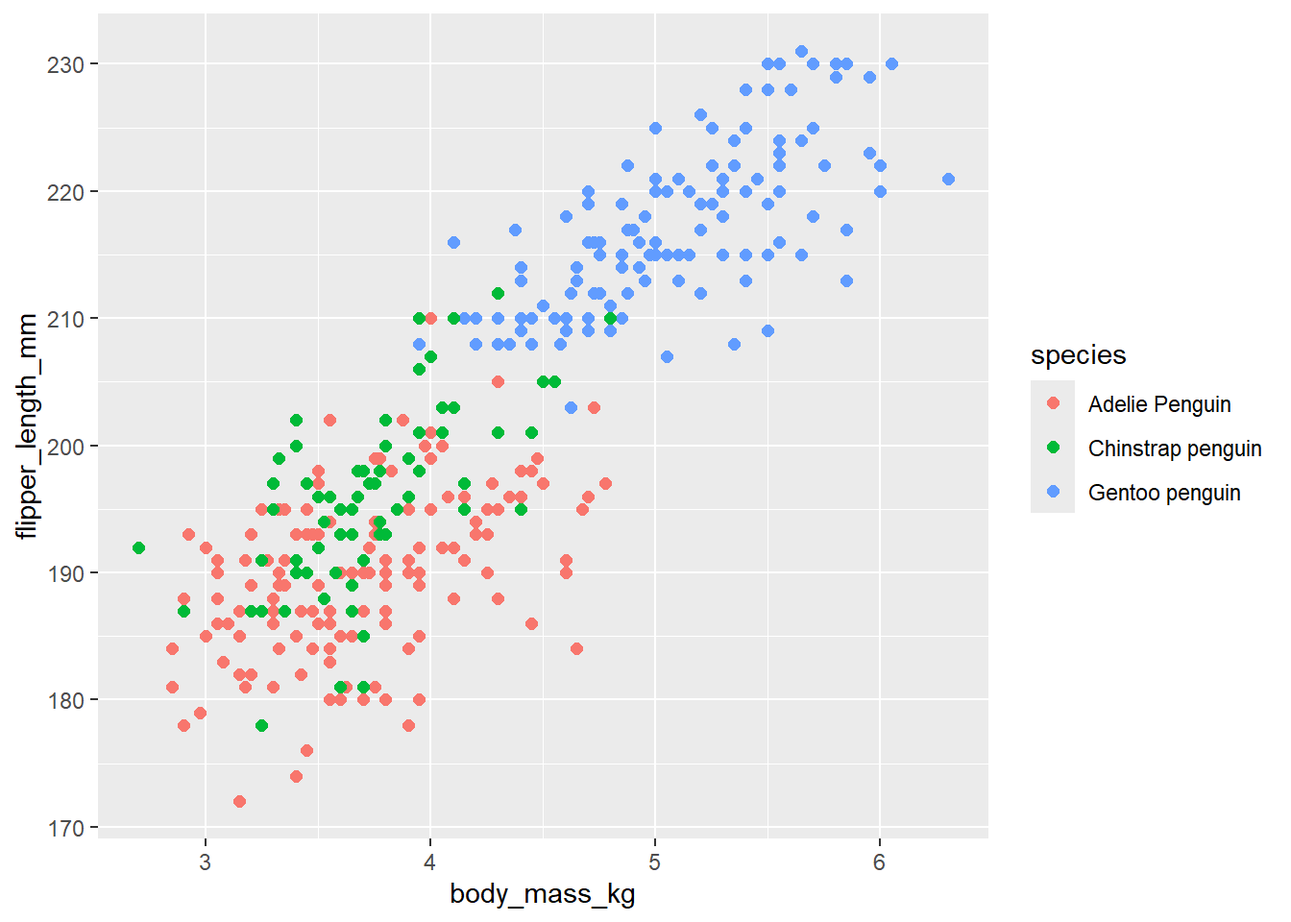
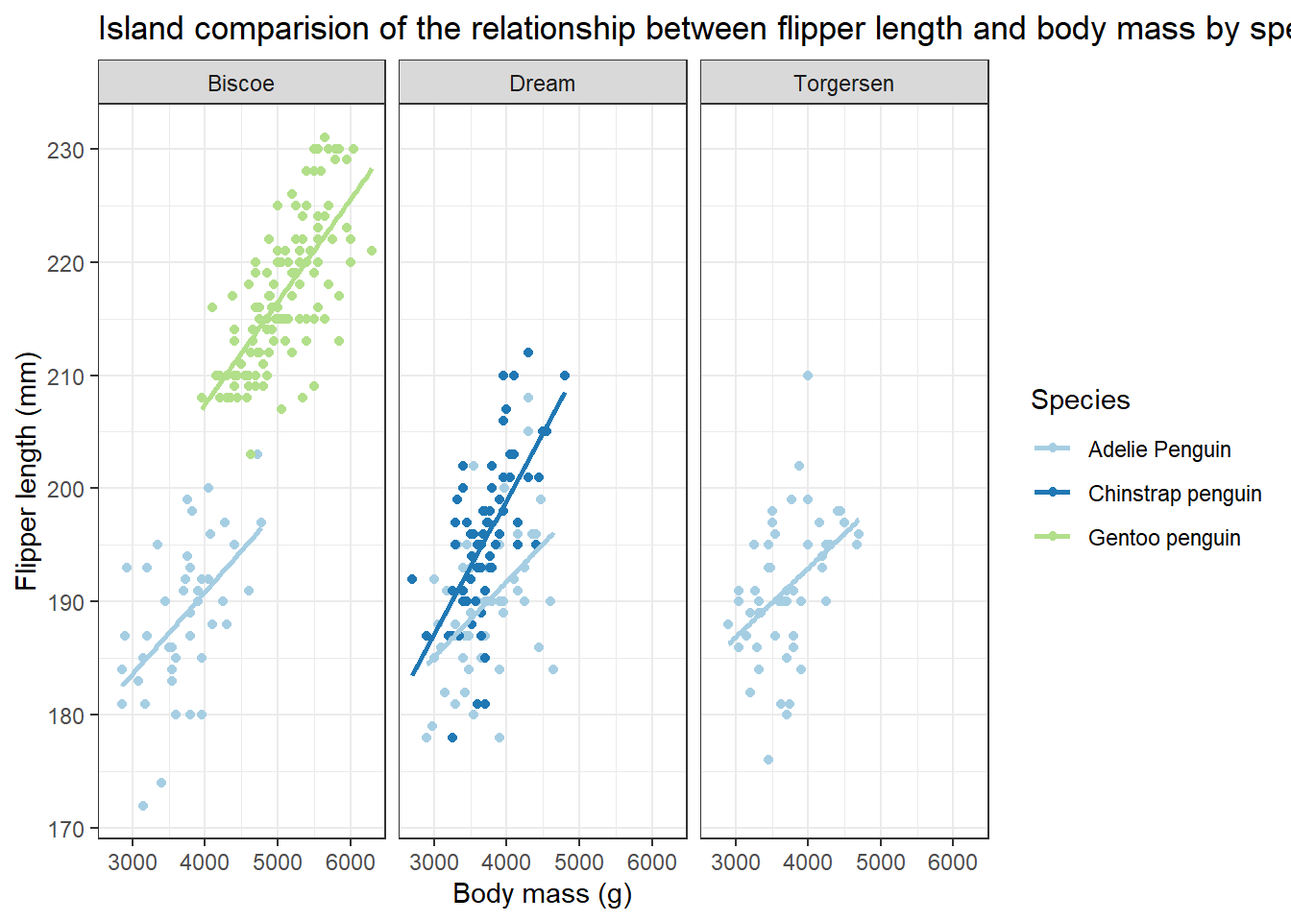
rendered script

diff --git a/scripts/BYOD1_workshop.html b/scripts/BYOD1_workshop.html
@@ -138,18 +138,9 @@ pre > code.sourceCode > span > a:first-child::before { text-decoration: underlin
   <li><a href="#main-elements-of-a-ggplot-object" id="toc-main-elements-of-a-ggplot-object" class="nav-link" data-scroll-target="#main-elements-of-a-ggplot-object"><span class="header-section-number">6.2</span> Main elements of a ggplot object</a>
   <ul class="collapse">
   <li><a href="#one-variable-figures" id="toc-one-variable-figures" class="nav-link" data-scroll-target="#one-variable-figures"><span class="header-section-number">6.2.1</span> One-variable figures</a></li>
-  <li><a href="#two-variable-figures" id="toc-two-variable-figures" class="nav-link" data-scroll-target="#two-variable-figures"><span class="header-section-number">6.2.2</span> Two-variable figures</a></li>
+  <li><a href="#two-variables-figures" id="toc-two-variables-figures" class="nav-link" data-scroll-target="#two-variables-figures"><span class="header-section-number">6.2.2</span> Two-variables figures</a></li>
+  <li><a href="#facets" id="toc-facets" class="nav-link" data-scroll-target="#facets"><span class="header-section-number">6.2.3</span> Facets!</a></li>
   </ul></li>
-  <li><a href="#scatterplots" id="toc-scatterplots" class="nav-link" data-scroll-target="#scatterplots"><span class="header-section-number">6.3</span> Scatterplots</a>
-  <ul class="collapse">
-  <li><a href="#blank-canvas" id="toc-blank-canvas" class="nav-link" data-scroll-target="#blank-canvas"><span class="header-section-number">6.3.1</span> Blank canvas</a></li>
-  <li><a href="#now-we-add-aesthetics-with-aes" id="toc-now-we-add-aesthetics-with-aes" class="nav-link" data-scroll-target="#now-we-add-aesthetics-with-aes"><span class="header-section-number">6.3.2</span> Now we add aesthetics with <code>aes()</code></a></li>
-  <li><a href="#add-geoms" id="toc-add-geoms" class="nav-link" data-scroll-target="#add-geoms"><span class="header-section-number">6.3.3</span> Add geom’s</a></li>
-  <li><a href="#formating-labels-using-labs" id="toc-formating-labels-using-labs" class="nav-link" data-scroll-target="#formating-labels-using-labs"><span class="header-section-number">6.3.4</span> Formating labels using <code>labs</code></a></li>
-  <li><a href="#adding-regression-lines" id="toc-adding-regression-lines" class="nav-link" data-scroll-target="#adding-regression-lines"><span class="header-section-number">6.3.5</span> Adding regression lines</a></li>
-  <li><a href="#visualizing-different-groups-with-facet_wrap" id="toc-visualizing-different-groups-with-facet_wrap" class="nav-link" data-scroll-target="#visualizing-different-groups-with-facet_wrap"><span class="header-section-number">6.3.6</span> Visualizing different groups with <code>facet_wrap</code></a></li>
-  </ul></li>
-  <li><a href="#exporting-datasets-in-nice-format-for-publication" id="toc-exporting-datasets-in-nice-format-for-publication" class="nav-link" data-scroll-target="#exporting-datasets-in-nice-format-for-publication"><span class="header-section-number">6.4</span> Exporting datasets in nice format for publication</a></li>
   </ul></li>
   <li><a href="#simple-statistics-if-time-allows" id="toc-simple-statistics-if-time-allows" class="nav-link" data-scroll-target="#simple-statistics-if-time-allows"><span class="header-section-number">7</span> Simple statistics (if time allows)</a></li>
   <li><a href="#conclusion" id="toc-conclusion" class="nav-link" data-scroll-target="#conclusion"><span class="header-section-number">8</span> Conclusion</a></li>
@@ -839,7 +830,7 @@ Now that we have a clean dataset and have created useful summaries, we can now t
 <div class="cell">
 <div class="sourceCode cell-code" id="cb16"><pre class="sourceCode r code-with-copy"><code class="sourceCode r"><span id="cb16-1"><a href="#cb16-1" aria-hidden="true" tabindex="-1"></a><span class="fu">glimpse</span>(cleandat)</span></code><button title="Copy to Clipboard" class="code-copy-button"><i class="bi"></i></button></pre></div>
 </div>
-<p>We may want to visualize the number of records that we have for each of the islands. First set up the basic, or canvas, for our plot and specify the data.</p>
+<p>We may want to visualize the number of records that we have for each of the islands. Let’s first set up the basics, or canvas, for our plot and specify the data.</p>
 <div class="cell">
 <div class="sourceCode cell-code" id="cb17"><pre class="sourceCode r code-with-copy"><code class="sourceCode r"><span id="cb17-1"><a href="#cb17-1" aria-hidden="true" tabindex="-1"></a><span class="fu">ggplot</span>(<span class="at">data=</span>cleandat)</span></code><button title="Copy to Clipboard" class="code-copy-button"><i class="bi"></i></button></pre></div>
 <div class="cell-output-display">
@@ -894,7 +885,7 @@ Now that we have a clean dataset and have created useful summaries, we can now t
 </table>
 </div>
 </div>
-<p>We add different elements to the blank canvas using the <strong>plus</strong> sign. Let’s count how many records per island. <strong>Island* will thus be on the </strong>x axis**, which is our only variable in this plot.</p>
+<p>We add different elements to the blank canvas using the <strong>plus</strong> sign. Let’s count how many records we have per island in our cleaned dataset. <strong>Island</strong> will thus be on the <strong>x axis</strong>, which is our only variable in this plot.</p>
 <div class="cell">
 <div class="cell-output-display">
 <div>
@@ -955,33 +946,19 @@ Now that we have a clean dataset and have created useful summaries, we can now t
 </div>
 </div>
 <p>Now it is your turn to play with single-variable plots! Refer to the <a href="https://rstudio.github.io/cheatsheets/data-visualization.pdf">ggplot2 cheatsheet</a> and try making a histogram of the penguins body weights to see how the weights are distributed across the dataset overall. In a second time, add complexity to this figure by visualizing how the distribution of body weight varies across species! Hint: if the species-specific bars are overlapping, you can add transparency using the <code>alpha</code> statement within the geometry function.</p>
+<p>As you can see, the options are limitless!</p>
+</section>
+<section id="two-variables-figures" class="level3" data-number="6.2.2">
+<h3 data-number="6.2.2" class="anchored" data-anchor-id="two-variables-figures"><span class="header-section-number">6.2.2</span> Two-variables figures</h3>
+In most instances we want to show relationships between two variables, sometimes also show how that relationship varies across groups. We will demonstrate this with the penguin dataset by building a figure of the relationship between penguins flipper length and body mass.
+<p></p>
+<p>We’ve already seen how to build a figure from the basic level (data only) to a nice figure with labels, titles, and better colours, so we can go ahead and build a nice scatterplot right away. The geometry to use in that instance will be <code>geom_point()</code> instead of <code>geom_bar()</code>. Here will have a <strong>X</strong> and a <strong>Y</strong> variable to pass to the <code>aes()</code> function.</p>
 <div class="cell">
 <div class="sourceCode cell-code" id="cb18"><pre class="sourceCode r code-with-copy"><code class="sourceCode r"><span id="cb18-1"><a href="#cb18-1" aria-hidden="true" tabindex="-1"></a><span class="fu">ggplot</span>(<span class="at">data=</span>cleandat)<span class="sc">+</span></span>
-<span id="cb18-2"><a href="#cb18-2" aria-hidden="true" tabindex="-1"></a>  <span class="fu">aes</span>(<span class="at">x=</span>body_mass_g, <span class="at">fill=</span>species)<span class="sc">+</span> <span class="co"># species will be in colour, island will be on the X axis</span></span>
-<span id="cb18-3"><a href="#cb18-3" aria-hidden="true" tabindex="-1"></a>  <span class="fu">geom_histogram</span>(<span class="at">alpha=</span><span class="fl">0.5</span>)</span></code><button title="Copy to Clipboard" class="code-copy-button"><i class="bi"></i></button></pre></div>
-<div class="cell-output cell-output-stderr">
-<pre><code>`stat_bin()` using `bins = 30`. Pick better value with `binwidth`.</code></pre>
-</div>
-<div class="cell-output-display">
-<div>
-<figure class="figure">
-<p><img src="BYOD1_workshop_files/figure-html/unnamed-chunk-24-1.png" class="img-fluid figure-img" width="672"></p>
-</figure>
-</div>
-</div>
-</div>
-</section>
-<section id="two-variable-figures" class="level3" data-number="6.2.2">
-<h3 data-number="6.2.2" class="anchored" data-anchor-id="two-variable-figures"><span class="header-section-number">6.2.2</span> Two-variable figures</h3>
-</section>
-</section>
-<section id="scatterplots" class="level2" data-number="6.3">
-<h2 data-number="6.3" class="anchored" data-anchor-id="scatterplots"><span class="header-section-number">6.3</span> Scatterplots</h2>
-<p>Let’s create a scatterplot showing the relationship between flipper length and body mass. We will start very simple with blank canvas and will gradually build layers and complexity.</p>
-<section id="blank-canvas" class="level3" data-number="6.3.1">
-<h3 data-number="6.3.1" class="anchored" data-anchor-id="blank-canvas"><span class="header-section-number">6.3.1</span> Blank canvas</h3>
-<div class="cell">
-<div class="sourceCode cell-code" id="cb20"><pre class="sourceCode r code-with-copy"><code class="sourceCode r"><span id="cb20-1"><a href="#cb20-1" aria-hidden="true" tabindex="-1"></a><span class="fu">ggplot</span>(cleandat)</span></code><button title="Copy to Clipboard" class="code-copy-button"><i class="bi"></i></button></pre></div>
+<span id="cb18-2"><a href="#cb18-2" aria-hidden="true" tabindex="-1"></a>  <span class="fu">aes</span>(<span class="at">x=</span>body_mass_g,<span class="at">y=</span>flipper_length_mm)<span class="sc">+</span> </span>
+<span id="cb18-3"><a href="#cb18-3" aria-hidden="true" tabindex="-1"></a>  <span class="fu">geom_point</span>()<span class="sc">+</span> <span class="co"># type of graph</span></span>
+<span id="cb18-4"><a href="#cb18-4" aria-hidden="true" tabindex="-1"></a><span class="fu">labs</span>(<span class="at">title=</span><span class="st">"Relationship between flipper length and body mass"</span>,<span class="at">x=</span><span class="st">"Body mass (g)"</span>,<span class="at">y=</span><span class="st">"Flipper length (mm)"</span>)<span class="sc">+</span> <span class="co">#Customizing labels</span></span>
+<span id="cb18-5"><a href="#cb18-5" aria-hidden="true" tabindex="-1"></a>  <span class="fu">theme_bw</span>() <span class="co"># remove grey background</span></span></code><button title="Copy to Clipboard" class="code-copy-button"><i class="bi"></i></button></pre></div>
 <div class="cell-output-display">
 <div>
 <figure class="figure">
@@ -990,12 +967,14 @@ Now that we have a clean dataset and have created useful summaries, we can now t
 </div>
 </div>
 </div>
-</section>
-<section id="now-we-add-aesthetics-with-aes" class="level3" data-number="6.3.2">
-<h3 data-number="6.3.2" class="anchored" data-anchor-id="now-we-add-aesthetics-with-aes"><span class="header-section-number">6.3.2</span> Now we add aesthetics with <code>aes()</code></h3>
-<p>Aesthetics in ggplot2 define graphical parameters such as the variables to plot on the X and Y axes, and</p>
+<p>Above we see the relationship using the whole dataset. We could follow a similar approach as above to show how that relationship varies across species. We could use different colours and/or different shapes to highly species-specific patterns. Let’s experiment with this and use the same colour palette as above!</p>
 <div class="cell">
-<div class="sourceCode cell-code" id="cb21"><pre class="sourceCode r code-with-copy"><code class="sourceCode r"><span id="cb21-1"><a href="#cb21-1" aria-hidden="true" tabindex="-1"></a><span class="fu">ggplot</span>(cleandat, <span class="fu">aes</span>(<span class="at">x=</span>body_mass_kg,<span class="at">y=</span>flipper_length_mm))</span></code><button title="Copy to Clipboard" class="code-copy-button"><i class="bi"></i></button></pre></div>
+<div class="sourceCode cell-code" id="cb19"><pre class="sourceCode r code-with-copy"><code class="sourceCode r"><span id="cb19-1"><a href="#cb19-1" aria-hidden="true" tabindex="-1"></a><span class="fu">ggplot</span>(<span class="at">data=</span>cleandat)<span class="sc">+</span></span>
+<span id="cb19-2"><a href="#cb19-2" aria-hidden="true" tabindex="-1"></a>  <span class="fu">aes</span>(<span class="at">x=</span>body_mass_g,<span class="at">y=</span>flipper_length_mm,<span class="at">colour=</span>species)<span class="sc">+</span> </span>
+<span id="cb19-3"><a href="#cb19-3" aria-hidden="true" tabindex="-1"></a>  <span class="fu">geom_point</span>()<span class="sc">+</span> <span class="co"># type of graph</span></span>
+<span id="cb19-4"><a href="#cb19-4" aria-hidden="true" tabindex="-1"></a><span class="fu">labs</span>(<span class="at">title=</span><span class="st">"Species-specificr relationship between flipper length and body mass"</span>,<span class="at">x=</span><span class="st">"Body mass (g)"</span>,<span class="at">y=</span><span class="st">"Flipper length (mm)"</span>,<span class="at">colour=</span><span class="st">"Species"</span>)<span class="sc">+</span> <span class="co">#Customizing labels</span></span>
+<span id="cb19-5"><a href="#cb19-5" aria-hidden="true" tabindex="-1"></a>  <span class="fu">theme_bw</span>()<span class="sc">+</span> <span class="co"># remove grey background</span></span>
+<span id="cb19-6"><a href="#cb19-6" aria-hidden="true" tabindex="-1"></a>  <span class="fu">scale_colour_brewer</span>(<span class="at">type=</span><span class="st">"qual"</span>,<span class="at">palette=</span><span class="dv">3</span>)</span></code><button title="Copy to Clipboard" class="code-copy-button"><i class="bi"></i></button></pre></div>
 <div class="cell-output-display">
 <div>
 <figure class="figure">
@@ -1004,14 +983,15 @@ Now that we have a clean dataset and have created useful summaries, we can now t
 </div>
 </div>
 </div>
-</section>
-<section id="add-geoms" class="level3" data-number="6.3.3">
-<h3 data-number="6.3.3" class="anchored" data-anchor-id="add-geoms"><span class="header-section-number">6.3.3</span> Add geom’s</h3>
-<code>geom</code>’s define the type of plot to be produced (e.g., histogram, bar chart, scatter point, etc.). For a scatter plot, we use <code>geom_point()</code>. Graphs in ggplot2 are built as layers, as if you were drawing a picture and gradually adding complexity to your image. This is done using the plus sign (<code>+</code>) and can be read as “take my plot, and ADD this to it”.
-<p></p>
+<p>Interesting! Intuitively our eyes are trying to draw regression lines through the cloud of points. It is possible to add these lines on the figure using the <code>geom_smooth</code> function.</p>
 <div class="cell">
-<div class="sourceCode cell-code" id="cb22"><pre class="sourceCode r code-with-copy"><code class="sourceCode r"><span id="cb22-1"><a href="#cb22-1" aria-hidden="true" tabindex="-1"></a><span class="fu">ggplot</span>(cleandat, <span class="fu">aes</span>(<span class="at">x=</span>body_mass_kg,<span class="at">y=</span>flipper_length_mm))<span class="sc">+</span></span>
-<span id="cb22-2"><a href="#cb22-2" aria-hidden="true" tabindex="-1"></a>  <span class="fu">geom_point</span>()</span></code><button title="Copy to Clipboard" class="code-copy-button"><i class="bi"></i></button></pre></div>
+<div class="sourceCode cell-code" id="cb20"><pre class="sourceCode r code-with-copy"><code class="sourceCode r"><span id="cb20-1"><a href="#cb20-1" aria-hidden="true" tabindex="-1"></a><span class="fu">ggplot</span>(<span class="at">data=</span>cleandat)<span class="sc">+</span></span>
+<span id="cb20-2"><a href="#cb20-2" aria-hidden="true" tabindex="-1"></a>  <span class="fu">aes</span>(<span class="at">x=</span>body_mass_g,<span class="at">y=</span>flipper_length_mm,<span class="at">colour=</span>species)<span class="sc">+</span> </span>
+<span id="cb20-3"><a href="#cb20-3" aria-hidden="true" tabindex="-1"></a>  <span class="fu">geom_point</span>()<span class="sc">+</span> <span class="co"># type of graph</span></span>
+<span id="cb20-4"><a href="#cb20-4" aria-hidden="true" tabindex="-1"></a><span class="fu">labs</span>(<span class="at">title=</span><span class="st">"Relationship between flipper length and body mass by species"</span>,<span class="at">x=</span><span class="st">"Body mass (g)"</span>,<span class="at">y=</span><span class="st">"Flipper length (mm)"</span>,<span class="at">colour=</span><span class="st">"Species"</span>)<span class="sc">+</span> <span class="co">#Customizing labels</span></span>
+<span id="cb20-5"><a href="#cb20-5" aria-hidden="true" tabindex="-1"></a>  <span class="fu">theme_bw</span>()<span class="sc">+</span> <span class="co"># remove grey background</span></span>
+<span id="cb20-6"><a href="#cb20-6" aria-hidden="true" tabindex="-1"></a>  <span class="fu">scale_colour_brewer</span>(<span class="at">type=</span><span class="st">"qual"</span>,<span class="at">palette=</span><span class="dv">3</span>)<span class="sc">+</span></span>
+<span id="cb20-7"><a href="#cb20-7" aria-hidden="true" tabindex="-1"></a>  <span class="fu">geom_smooth</span>(<span class="at">method=</span><span class="st">"lm"</span>,<span class="at">se=</span><span class="cn">FALSE</span>) <span class="co"># se=T would show confidence limits based on the standard error. The colour follows the same as the cloud of points and does not need to be added again here.</span></span></code><button title="Copy to Clipboard" class="code-copy-button"><i class="bi"></i></button></pre></div>
 <div class="cell-output-display">
 <div>
 <figure class="figure">
@@ -1020,10 +1000,22 @@ Now that we have a clean dataset and have created useful summaries, we can now t
 </div>
 </div>
 </div>
-<p>One of our goals in this study is to compare species. Let’s see how this figure looks if we colour the points for each of the species.</p>
+If you would like you can take a moment to play with other variables and make additional figures. Also note that this is a pretty clean dataset and straight regression lines seem to fit pretty well. This isn’t always the case, however, and the figures do not replace thorough statistical tests and models!
+<p></p>
+<p>As an exercise, repeat the same figure as above but show species in different colours and islands as different shapes. What do you notice?</p>
+</section>
+<section id="facets" class="level3" data-number="6.2.3">
+<h3 data-number="6.2.3" class="anchored" data-anchor-id="facets"><span class="header-section-number">6.2.3</span> Facets!</h3>
+<p>At times we may want to display complex information for several categories simultaneously, and adding all of that complexity to one graph leads to figures that can be difficult to interpret. Using <code>facets</code> we can display the same figure in different panels based on the values of a categorical variable. For example, instead of using different shapes for the different islands, we could use <code>facet_wrap()</code> function as below.</p>
 <div class="cell">
-<div class="sourceCode cell-code" id="cb23"><pre class="sourceCode r code-with-copy"><code class="sourceCode r"><span id="cb23-1"><a href="#cb23-1" aria-hidden="true" tabindex="-1"></a><span class="fu">ggplot</span>(cleandat, <span class="fu">aes</span>(<span class="at">x=</span>body_mass_kg,<span class="at">y=</span>flipper_length_mm,<span class="at">colour=</span>species))<span class="sc">+</span></span>
-<span id="cb23-2"><a href="#cb23-2" aria-hidden="true" tabindex="-1"></a>  <span class="fu">geom_point</span>(<span class="at">size=</span><span class="dv">2</span>)</span></code><button title="Copy to Clipboard" class="code-copy-button"><i class="bi"></i></button></pre></div>
+<div class="sourceCode cell-code" id="cb21"><pre class="sourceCode r code-with-copy"><code class="sourceCode r"><span id="cb21-1"><a href="#cb21-1" aria-hidden="true" tabindex="-1"></a><span class="fu">ggplot</span>(<span class="at">data=</span>cleandat)<span class="sc">+</span></span>
+<span id="cb21-2"><a href="#cb21-2" aria-hidden="true" tabindex="-1"></a>  <span class="fu">aes</span>(<span class="at">x=</span>body_mass_g,<span class="at">y=</span>flipper_length_mm,<span class="at">colour=</span>species)<span class="sc">+</span> </span>
+<span id="cb21-3"><a href="#cb21-3" aria-hidden="true" tabindex="-1"></a>  <span class="fu">geom_point</span>()<span class="sc">+</span> <span class="co"># type of graph</span></span>
+<span id="cb21-4"><a href="#cb21-4" aria-hidden="true" tabindex="-1"></a><span class="fu">labs</span>(<span class="at">title=</span><span class="st">"Island comparision of the relationship between flipper length and body mass by species"</span>,<span class="at">x=</span><span class="st">"Body mass (g)"</span>,<span class="at">y=</span><span class="st">"Flipper length (mm)"</span>,<span class="at">colour=</span><span class="st">"Species"</span>)<span class="sc">+</span> <span class="co">#Customizing labels</span></span>
+<span id="cb21-5"><a href="#cb21-5" aria-hidden="true" tabindex="-1"></a>  <span class="fu">theme_bw</span>()<span class="sc">+</span> <span class="co"># remove grey background</span></span>
+<span id="cb21-6"><a href="#cb21-6" aria-hidden="true" tabindex="-1"></a>  <span class="fu">scale_colour_brewer</span>(<span class="at">type=</span><span class="st">"qual"</span>,<span class="at">palette=</span><span class="dv">3</span>)<span class="sc">+</span></span>
+<span id="cb21-7"><a href="#cb21-7" aria-hidden="true" tabindex="-1"></a>  <span class="fu">geom_smooth</span>(<span class="at">method=</span><span class="st">"lm"</span>,<span class="at">se=</span><span class="cn">FALSE</span>)<span class="sc">+</span> <span class="co"># se=T would show confidence limits based on the standard error. The colour follows the same as the cloud of points and does not need to be added again here.</span></span>
+<span id="cb21-8"><a href="#cb21-8" aria-hidden="true" tabindex="-1"></a><span class="fu">facet_wrap</span>(<span class="sc">~</span>island)</span></code><button title="Copy to Clipboard" class="code-copy-button"><i class="bi"></i></button></pre></div>
 <div class="cell-output-display">
 <div>
 <figure class="figure">
@@ -1032,48 +1024,11 @@ Now that we have a clean dataset and have created useful summaries, we can now t
 </div>
 </div>
 </div>
-<p>Now we could even add an additional layer by colouring the points by species and adding a shape for each of the island. Let’s try that!</p>
+Now try adding the <code>scales="free"</code> argument within <code>the</code> facet_wrap() and see what happens. Would this be a useful figure if the purpose was to compare the different islands? Are there cases where it would be useful?
+<p></p>
+<p>In this case, our latest figure was likely the best, and we now want to export it<br>
+## Exporting datasets in nice format for publication</p>
 </section>
-<section id="formating-labels-using-labs" class="level3" data-number="6.3.4">
-<h3 data-number="6.3.4" class="anchored" data-anchor-id="formating-labels-using-labs"><span class="header-section-number">6.3.4</span> Formating labels using <code>labs</code></h3>
-<div class="cell">
-<div class="sourceCode cell-code" id="cb24"><pre class="sourceCode r code-with-copy"><code class="sourceCode r"><span id="cb24-1"><a href="#cb24-1" aria-hidden="true" tabindex="-1"></a><span class="fu">ggplot</span>(cleandat, <span class="fu">aes</span>(<span class="at">x=</span>body_mass_kg,<span class="at">y=</span>flipper_length_mm,<span class="at">colour=</span>species,<span class="at">shape=</span>island))<span class="sc">+</span></span>
-<span id="cb24-2"><a href="#cb24-2" aria-hidden="true" tabindex="-1"></a>  <span class="fu">geom_point</span>(<span class="at">size=</span><span class="dv">2</span>) <span class="sc">+</span> </span>
-<span id="cb24-3"><a href="#cb24-3" aria-hidden="true" tabindex="-1"></a>  <span class="fu">labs</span>(<span class="at">title=</span><span class="st">"Flipper length and body mass relationship by species"</span>)</span></code><button title="Copy to Clipboard" class="code-copy-button"><i class="bi"></i></button></pre></div>
-<div class="cell-output-display">
-<div>
-<figure class="figure">
-<p><img src="BYOD1_workshop_files/figure-html/unnamed-chunk-29-1.png" class="img-fluid figure-img" width="672"></p>
-</figure>
-</div>
-</div>
-</div>
-</section>
-<section id="adding-regression-lines" class="level3" data-number="6.3.5">
-<h3 data-number="6.3.5" class="anchored" data-anchor-id="adding-regression-lines"><span class="header-section-number">6.3.5</span> Adding regression lines</h3>
-<div class="cell">
-<div class="sourceCode cell-code" id="cb25"><pre class="sourceCode r code-with-copy"><code class="sourceCode r"><span id="cb25-1"><a href="#cb25-1" aria-hidden="true" tabindex="-1"></a><span class="fu">ggplot</span>(cleandat, <span class="fu">aes</span>(<span class="at">x=</span>body_mass_kg,<span class="at">y=</span>flipper_length_mm,<span class="at">colour=</span>species))<span class="sc">+</span></span>
-<span id="cb25-2"><a href="#cb25-2" aria-hidden="true" tabindex="-1"></a>  <span class="fu">geom_point</span>(<span class="at">size=</span><span class="dv">2</span>) <span class="sc">+</span> </span>
-<span id="cb25-3"><a href="#cb25-3" aria-hidden="true" tabindex="-1"></a>  <span class="fu">labs</span>(<span class="at">title=</span><span class="st">"Flipper length and body mass relationship by species"</span>) <span class="sc">+</span> </span>
-<span id="cb25-4"><a href="#cb25-4" aria-hidden="true" tabindex="-1"></a>  <span class="fu">geom_smooth</span>(<span class="at">method =</span> <span class="st">'lm'</span>, <span class="at">se =</span> <span class="cn">TRUE</span>) </span></code><button title="Copy to Clipboard" class="code-copy-button"><i class="bi"></i></button></pre></div>
-<div class="cell-output cell-output-stderr">
-<pre><code>`geom_smooth()` using formula = 'y ~ x'</code></pre>
-</div>
-<div class="cell-output-display">
-<div>
-<figure class="figure">
-<p><img src="BYOD1_workshop_files/figure-html/unnamed-chunk-30-1.png" class="img-fluid figure-img" width="672"></p>
-</figure>
-</div>
-</div>
-</div>
-</section>
-<section id="visualizing-different-groups-with-facet_wrap" class="level3" data-number="6.3.6">
-<h3 data-number="6.3.6" class="anchored" data-anchor-id="visualizing-different-groups-with-facet_wrap"><span class="header-section-number">6.3.6</span> Visualizing different groups with <code>facet_wrap</code></h3>
-</section>
-</section>
-<section id="exporting-datasets-in-nice-format-for-publication" class="level2" data-number="6.4">
-<h2 data-number="6.4" class="anchored" data-anchor-id="exporting-datasets-in-nice-format-for-publication"><span class="header-section-number">6.4</span> Exporting datasets in nice format for publication</h2>
 </section>
 </section>
 <section id="simple-statistics-if-time-allows" class="level1" data-number="7">
